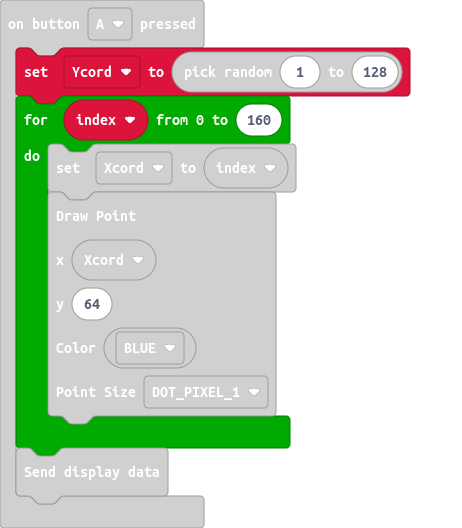
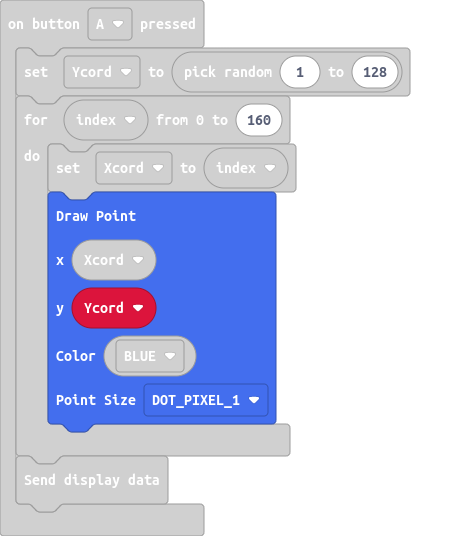
Update main.blocks, main.ts

diff --git a/main.ts b/main.ts
@@ -4,7 +4,7 @@ input.onButtonPressed(Button.A, function () {
         Xcord = index
         LCD1IN8.DrawPoint(
         Xcord,
-        64,
+        Ycord,
         LCD1IN8.Get_Color(LCD_COLOR.BLUE),
         DOT_PIXEL.DOT_PIXEL_1
         )
